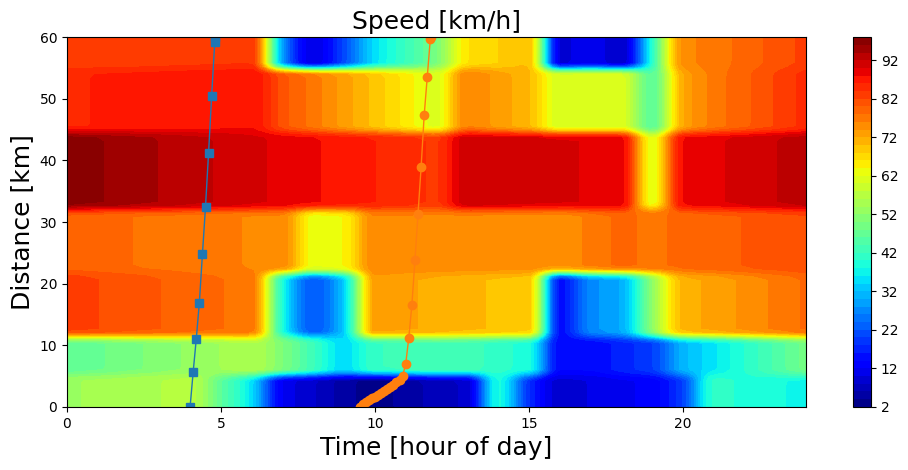
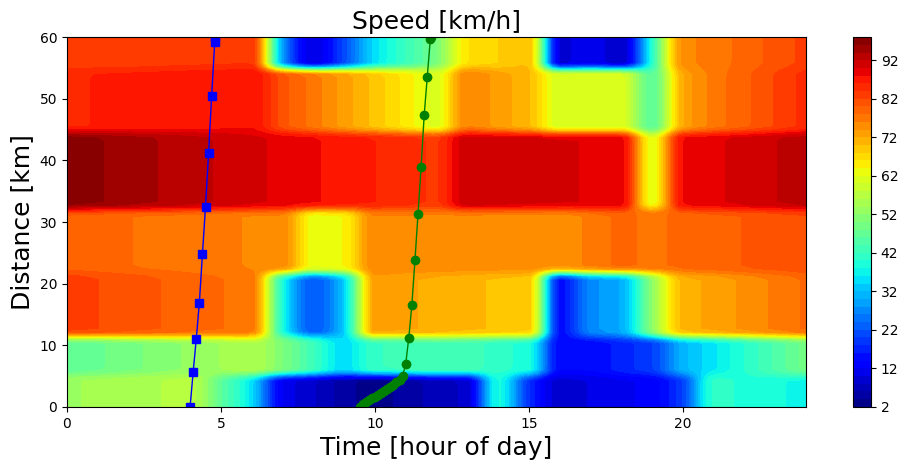
Final Adjustments
Changed some things. Implemented While loop when need for better consistency and logical flow. Thereafter what is left too is M5 the optional one and finally to do the report on the project!

diff --git a/roadster/roadster.py b/roadster/roadster.py
@@ -155,24 +155,21 @@ def reach(C, route):
     max_distance = max(load_route(route)[0])
     min_distance = min(load_route(route)[0])
     
-    # Arbitrary large number of max iterations
-    max_iter = 10**3
-    # Iteration loop; stop if within tolerance or max iterations reached
-    for i in range(max_iter):
+    # Arbitrary large number of max iterations, via while loop  
+    # Conditional loop to ensure x0 stays within valid distance range, thus while loop  
+    while min_distance < x0 < max_distance:
+        # Perform Newton's method step
+        x1 = x0 - f(x0) / df(x0)
+        print(type(x1), x1 )
         
+        # Check for convergence
+        if abs(x1 - x0) <= tol:
+            return x1
+        # Update x0 for next iteration
+        x0 = x1
+    else:
         # Ensure x0 stays within valid distance range
-        if min_distance < x0 < max_distance:
-            
-            # Perform Newton's method step
-            x1 = x0 - f(x0) / df(x0)
-            
-            # Check for convergence
-            if abs(x1 - x0) <= tol:
-                return x1
-            
-            # Update x0 for next iteration
-            x0 = x1
-        else:
-            if x0 >= max_distance:
-                return max_distance
-            return min_distance
+        if x0 >= max_distance:
+            return max_distance
+        return min_distance
+    

diff --git a/roadster/script_part4b.py b/roadster/script_part4b.py
@@ -27,12 +27,12 @@ h_euler = 0.1  # in hours
 # Trip 1: start 04:00 -> t0 = 4.0
 t0_a = 4.0
 time_a, dist_a, speed_a = route_nyc.nyc_route_traveler_euler(t0_a, h_euler)
-plt.plot(time_a, dist_a, linewidth=1, marker='s', label='Trip start 04:00 (Euler)')
+plt.plot(time_a, dist_a, linewidth=1, color='blue', marker='s', label='Trip start 04:00 (Euler)')
 
 # Trip 2: start 09:30 -> t0 = 9.5
 t0_b = 9.5
 time_b, dist_b, speed_b = route_nyc.nyc_route_traveler_euler(t0_b, h_euler)
-plt.plot(time_b, dist_b, linewidth=1, marker='o', label='Trip start 09:30 (Euler)')
+plt.plot(time_b, dist_b, linewidth=1, color='green', marker='o', label='Trip start 09:30 (Euler)')
 
 
 plt.savefig("speed-data-nyc.eps", bbox_inches='tight')
